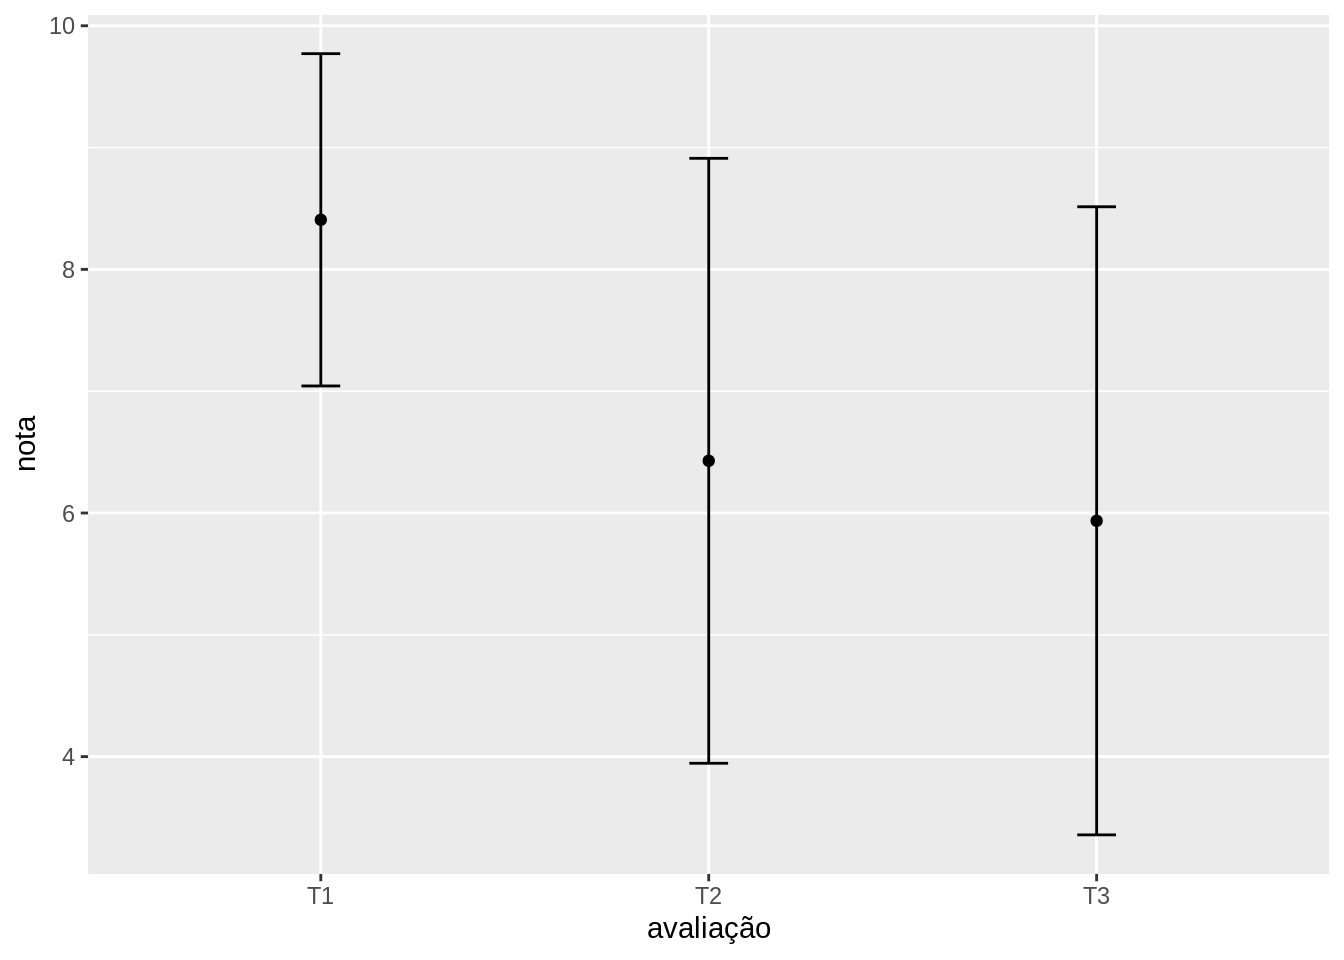
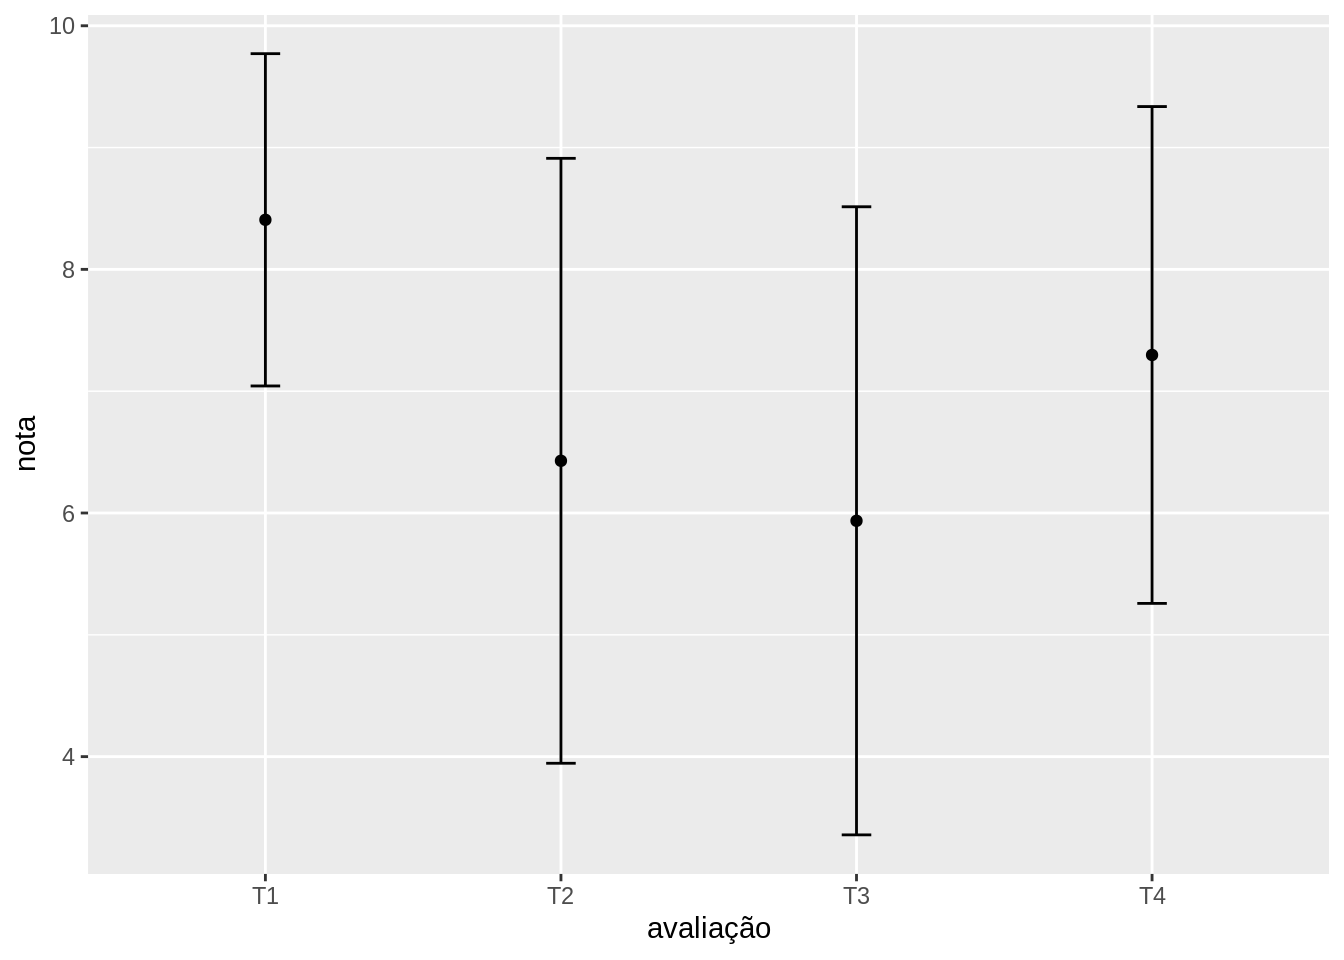
2019_1_each: T4 grades.

diff --git a/content/classes/2019_1_each/grades.html b/content/classes/2019_1_each/grades.html
@@ -29,7 +29,7 @@ código de ética desta disciplina e você está reprovado.</p></li>
 <div id="notas" class="section level3">
 <h3>Notas</h3>
 <div id="htmlwidget-1" style="width:100%;height:auto;" class="datatables html-widget"></div>
-<script type="application/json" data-for="htmlwidget-1">{"x":{"filter":"none","data":[[31,69,83,102,116,146,170,181,199,212,239,266,302,318,331,334,339,350,368,374,378,379,561,718,829,2114,2129,5348,5430,5884,5889,7954,9576,9628,9752,9780,9804,9844,9846,9859,9868,9875,9880,9885,9896,9981],[8,8,0,6.5,7,9,4.5,8,9,9,9.5,9,9.5,9,9,9,8,9,9,9,0,9,9,9,7.5,9.5,9.5,9,9,8,6,6,6,0,9,8.5,9,9,9.5,9,9.5,10,9.5,9.5,8.5,4],[6,10,0,5.5,3,10,7,10,7,8,2,7,10,7,8,7,2,4,5,9,0,5,6.5,6,10,10,9,7,7,3,5,2,2,0,3,4,4,7,6,7,7,10,8,7,7,0],[2,5,0,0,5,6.5,10,8,4,6,3.5,5,2,4,7,6,8,5,10,7,0,10,6,5,0,10,6.5,5,6,0,7,1,2,null,5.5,1,5.5,10,8,9.5,5.5,10,3,5,6,0]],"container":"<table class=\"display\">\n  <thead>\n    <tr>\n      <th>RA<\/th>\n      <th>T1<\/th>\n      <th>T2<\/th>\n      <th>T3<\/th>\n    <\/tr>\n  <\/thead>\n<\/table>","options":{"dom":"ftip","columnDefs":[{"className":"dt-right","targets":[0,1,2,3]}],"order":[],"autoWidth":false,"orderClasses":false}},"evals":[],"jsHooks":[]}</script>
+<script type="application/json" data-for="htmlwidget-1">{"x":{"filter":"none","data":[[31,69,83,102,116,146,170,181,199,212,239,266,302,318,331,334,339,350,368,374,378,379,561,718,829,2114,2129,5348,5430,5884,5889,7954,9576,9628,9752,9780,9804,9844,9846,9859,9868,9875,9880,9885,9896,9981],[8,8,0,6.5,7,9,4.5,8,9,9,9.5,9,9.5,9,9,9,8,9,9,9,0,9,9,9,7.5,9.5,9.5,9,9,8,6,6,6,0,9,8.5,9,9,9.5,9,9.5,10,9.5,9.5,8.5,4],[6,10,0,5.5,3,10,7,10,7,8,2,7,10,7,8,7,2,4,5,9,0,5,6.5,6,10,10,9,7,7,3,5,2,2,0,3,4,4,7,6,7,7,10,8,7,7,0],[2,5,0,0,5,6.5,10,8,4,6,3.5,5,2,4,7,6,8,5,10,7,0,10,6,5,0,10,6.5,5,6,0,7,1,2,null,5.5,1,5.5,10,8,9.5,5.5,10,3,5,6,0],[2.5,7.5,0,0,6.5,10,9,10,7.5,10,10,10,6.5,7.5,8.5,5,5,9,7.5,7.5,0,5,5,0,6,5,5,8.5,7.5,0,6.5,0,0,0,5,5,8.5,5,7.5,10,7.5,8.5,10,5,10,0]],"container":"<table class=\"display\">\n  <thead>\n    <tr>\n      <th>RA<\/th>\n      <th>T1<\/th>\n      <th>T2<\/th>\n      <th>T3<\/th>\n      <th>T4<\/th>\n    <\/tr>\n  <\/thead>\n<\/table>","options":{"dom":"ftip","columnDefs":[{"className":"dt-right","targets":[0,1,2,3,4]}],"order":[],"autoWidth":false,"orderClasses":false}},"evals":[],"jsHooks":[]}</script>
 </div>
 <div id="graficos" class="section level3">
 <h3>Gráficos</h3>
